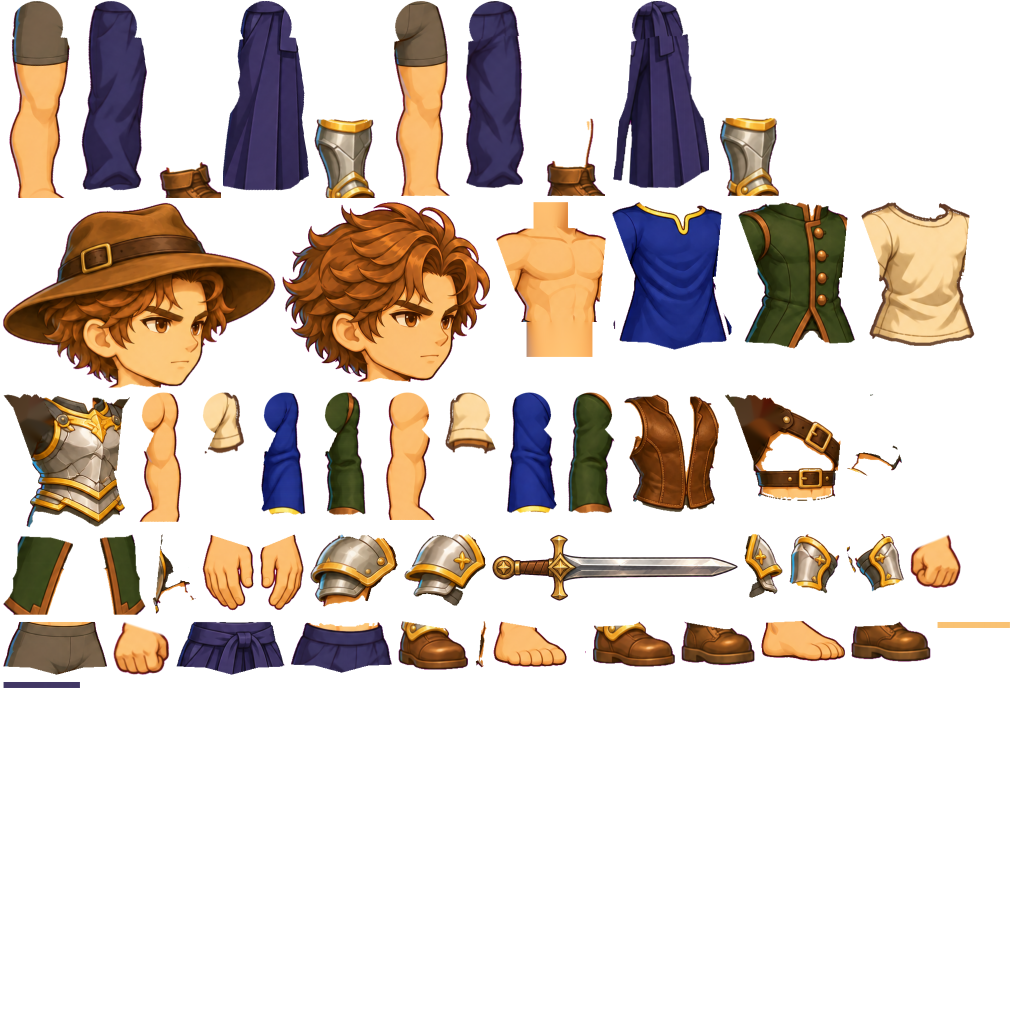
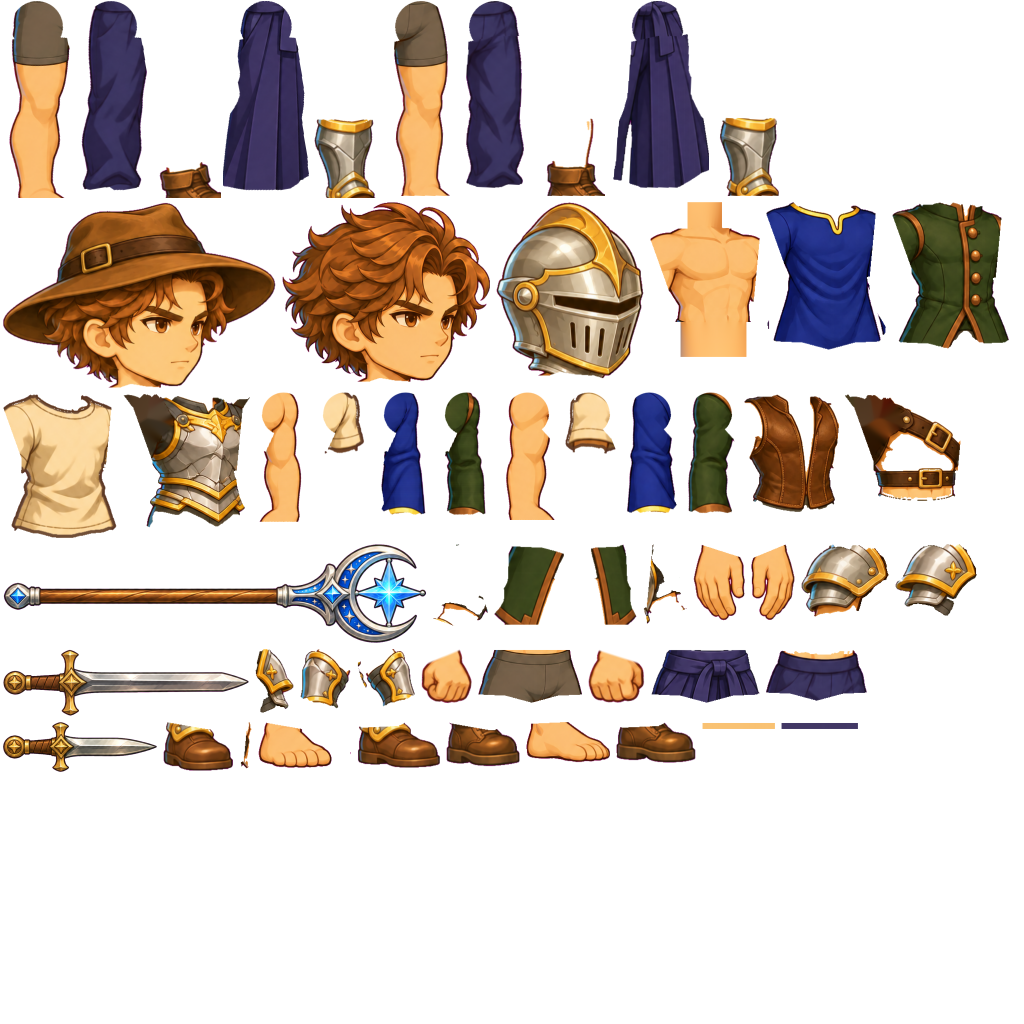
V4 lab, BASE-01 Equipment Factory v1: the stress batch complete (10 items), headwear always hides the bare head
The tenth item (the short dagger) through the importer; all fifteen catalog rows
accepted; 756 mixes pass R1-R8. Headwear is drawn as the whole head, so it always
hides the bare head (a full helmet no longer shows the hair around it).

Claude-Session: https://claude.ai/code/session_01AdjxSzUCV4VRbquShPanH9

Changed region(s): [[0.0, 0.1875, 1.0, 0.75]]

diff --git a/tools/v4/base01/build.py b/tools/v4/base01/build.py
@@ -640,6 +640,7 @@ for it in items_spec:
     # shorts' waistband above a pair of trousers)
     cov = {p: float((item & L0[p] & M0).sum() / max(1, (L0[p] & M0).sum())) for p in PARTS}
     covers = [p for p, c in cov.items() if c >= it.get('cover_from', 0.85)]
+    if it['slot'] == 'hat' and 'head' not in covers: covers.append('head')   # headwear is the whole head as drawn
     entry = {'id': it['id'], 'slot': it['slot'], 'name': it['name'], 'parts': [{'part': p, 'frame': f} for p, f in made], 'covers': covers}
     if it['slot'] == 'bottom':
         # loose legs (a hakama, wide trousers: wider than the template's leg by 15% or more) go over the shoes
